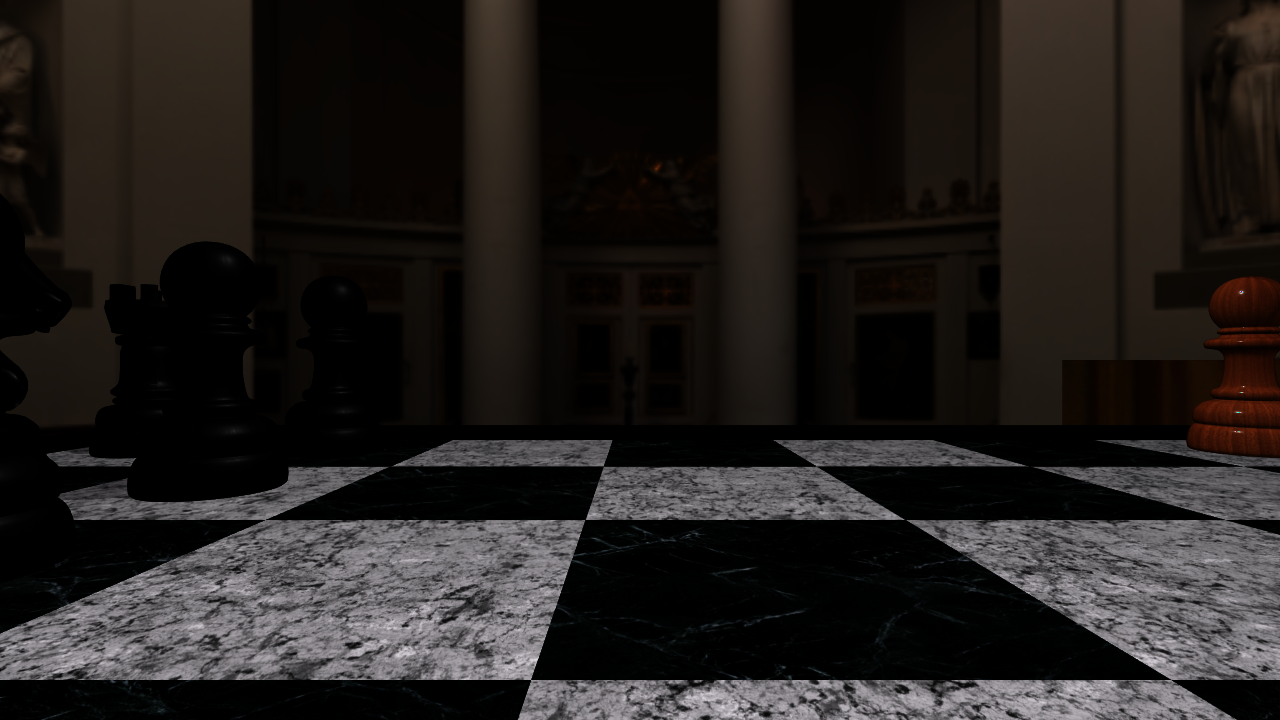
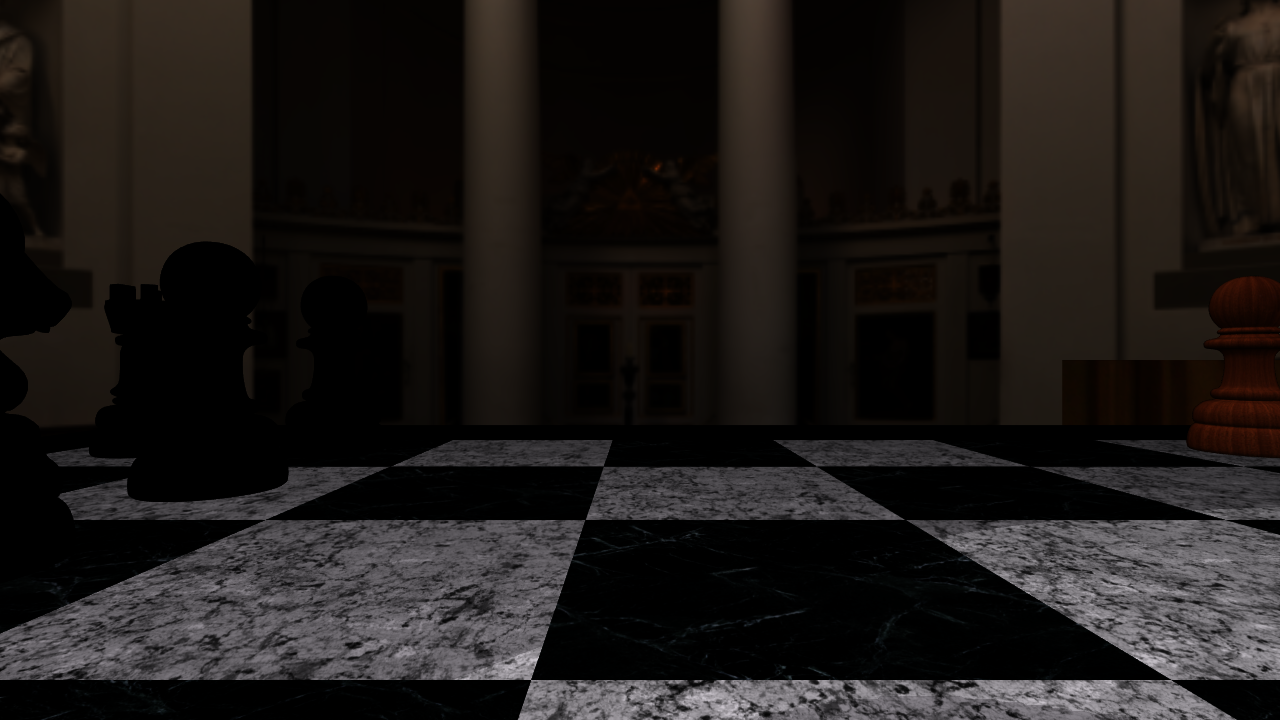
More Mip write prep

Changed region(s): [[0.0, 0.6111, 0.8125, 0.9472], [0.8125, 0.55, 1.0, 0.7333], [0.5938, 0.9472, 0.875, 1.0]]

diff --git a/vkRenderer/src/render_tasks/ImageWritebackTask.cpp b/vkRenderer/src/render_tasks/ImageWritebackTask.cpp
@@ -51,7 +51,7 @@ void ImageWritebackTask::Init( const imageWriteBackCreateInfo_t& info )
 	writeBackParms_t writeBackParms {};
 
 	const uint32_t maxBpp = sizeof( vec4f ); // Data from the readback is float due to buffer restrictions
-	const uint32_t elementsCount = MipPixelCount( m_readbackImage->info.width, m_readbackImage->info.height ) * m_readbackImage->info.layers; // Allocated as for padded out square MIPs
+	const uint32_t elementsCount = MipPixelCount( m_readbackImage->info.width, m_readbackImage->info.height ) * m_readbackImage->info.layers; // Allocated as for padded out MIPs
 	
 	m_writebackBuffer.Create(
 		"Writeback Buffer",
@@ -96,11 +96,13 @@ void ImageWritebackTask::FrameBegin()
 
 void ImageWritebackTask::Execute( CommandContext& cmdContext )
 {
-	if ( HasFlags( m_flags, SCREENSHOT ) && g_imguiControls.captureScreenshot == false ) {
-		return;
+	if ( HasFlags( m_flags, SCREENSHOT ) ) {
+		if( g_imguiControls.captureScreenshot == false ) {
+			return;
+		}
+		g_imguiControls.captureScreenshot = false;
 	}
-	g_imguiControls.captureScreenshot = false;
-
+	
 	if ( HasFlags( m_flags, TRY_USE_API_COMMAND ) == false )
 	{
 		const uint32_t blockSize = 8;
@@ -213,6 +215,20 @@ void ImageWritebackTask::FrameEnd()
 
 		float* floatData = reinterpret_cast<float*>( m_writebackBuffer.Get() );
 		rgba8_t* convertedData = reinterpret_cast<rgba8_t*>( m_readbackImage->cpuImage->Ptr() );
+
+		//for ( uint32_t mipLevel = 0; mipLevel < 1; ++mipLevel )
+		//{
+		//	for ( uint32_t layer = 0; layer < m_readbackImage->info.layers; ++layer )
+		//	{
+		//		rgba8_t* convertedData = reinterpret_cast<rgba8_t*>( m_readbackImage->cpuImage->GetSlicePtr( layer, mipLevel ) );
+		//		for ( uint32_t i = 0; i < 1; ++i )
+		//		{
+		//			Color color = Color( floatData[ 3 ], floatData[ 2 ], floatData[ 1 ], floatData[ 0 ] );
+		//			convertedData[ i ] = color.AsRGBA();
+		//			floatData += 4;
+		//		}
+		//	}
+		//}
 
 		const uint32_t bufferLength = m_readbackImage->cpuImage->GetPixelCount();
 		for ( uint32_t i = 0; i < bufferLength; ++i )

diff --git a/vkRenderer/src/render_core/renderInit.cpp b/vkRenderer/src/render_core/renderInit.cpp
@@ -351,6 +351,19 @@ void Renderer::Init( const renderConfig_t& cfg )
 		screenshotWriteback = new ImageWritebackTask( info );
 	}
 
+	ImageWritebackTask* testMipWriteTask = nullptr;
+	{
+		imageWriteBackCreateInfo_t info{};
+		info.name = "MipMapWriteBack";
+		info.img = &g_assets.textureLib.GetDefault()->Get();
+		info.context = &renderContext;
+		info.resources = &resources;
+		info.fileName = "mipmap.img";
+		info.flags |= imageWritebackFlags_t::WRITE_TO_DISK;
+
+		testMipWriteTask = new ImageWritebackTask( info );
+	}
+
 	InitShaderResources();
 
 	InitImGui( *view2Ds[ 0 ] );
@@ -385,6 +398,7 @@ void Renderer::Init( const renderConfig_t& cfg )
 		schedule.Queue( imageCubemapWriteBackTask );
 	}
 	schedule.Queue( resolve );
+	//schedule.Queue( testMipWriteTask );
 
 	if( config.screenshot ) {
 		schedule.Queue( screenshotWriteback );

diff --git a/vkRenderer/scenes/nesScene.cpp b/vkRenderer/scenes/nesScene.cpp
@@ -64,10 +64,7 @@ void CopyFrameBuffer( Tomtendo::wtFrameResult& fr, hdl_t texHandle )
 	const uint32_t width = fr.frameBuffer->GetWidth();
 	const uint32_t height = fr.frameBuffer->GetHeight();
 
-	ImageBuffer<rgba8_t>* imageBuffer =reinterpret_cast<ImageBuffer<rgba8_t>*>( texture.cpuImage );
-
-	imageBuffer->Destroy();
-	imageBuffer->Init( width, height );
+	ImageBuffer<rgba8_t>* imageBuffer = reinterpret_cast<ImageBuffer<rgba8_t>*>( texture.cpuImage );
 
 	for ( uint32_t y = 0; y < height; ++y )
 	{
